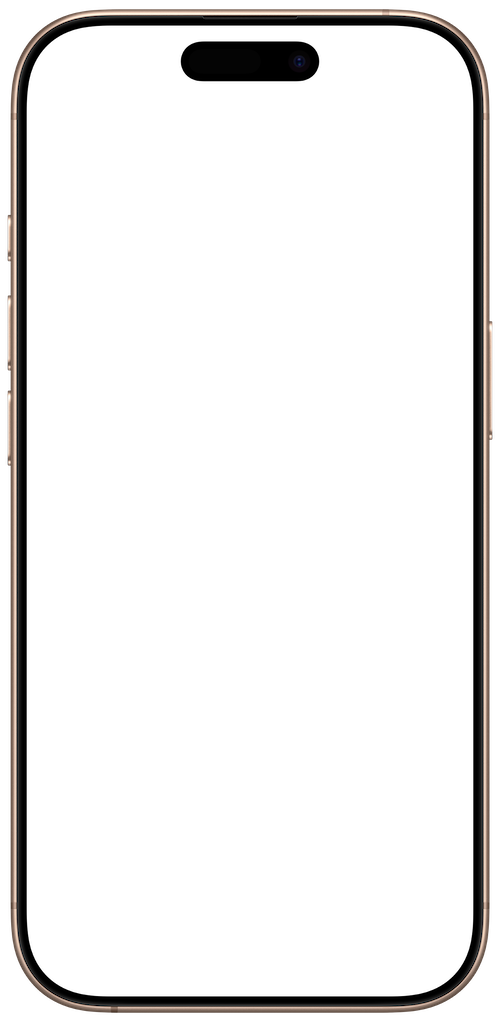
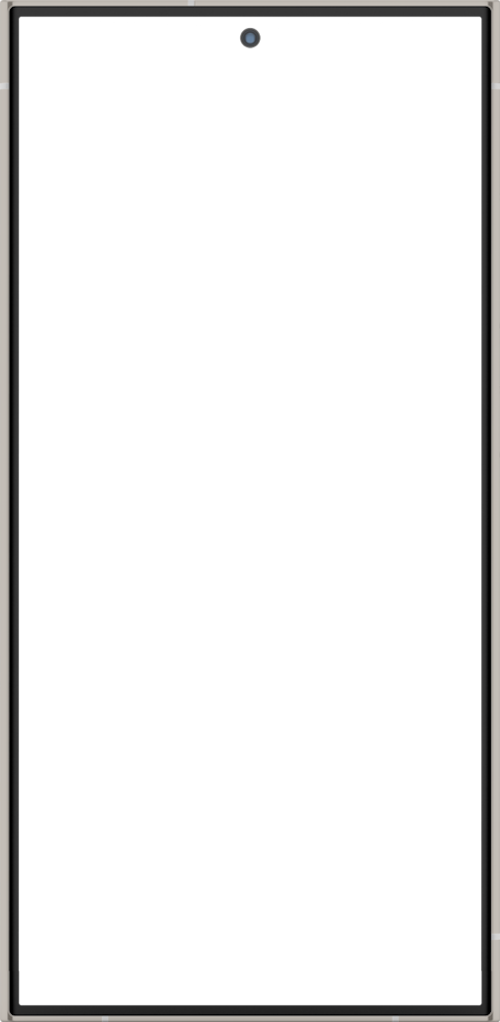
Frontend: Replace iPhone frame with Samsung frame

Changed region(s): [[0.0, 0.0, 1.0, 1.0]]

diff --git a/FractalTree.Frontend/src/CSS/PhoneWrapper.css b/FractalTree.Frontend/src/CSS/PhoneWrapper.css
@@ -17,12 +17,9 @@
     height: 82vh;
     width: 40vh;
     border: none;
-    border-bottom-left-radius: 10%;
-    border-bottom-right-radius: 10%;
     overflow: hidden;
 }
 
 .phoneWrapperFrame img {
     height: 90vh;
-
 }
